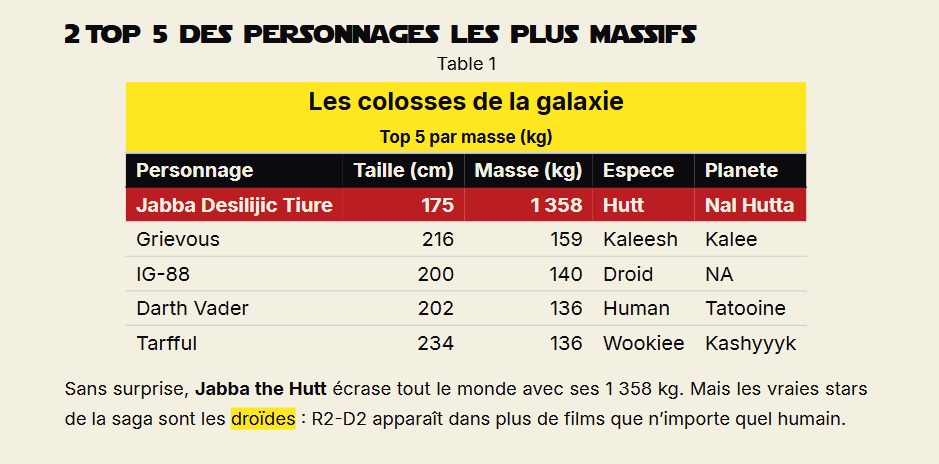
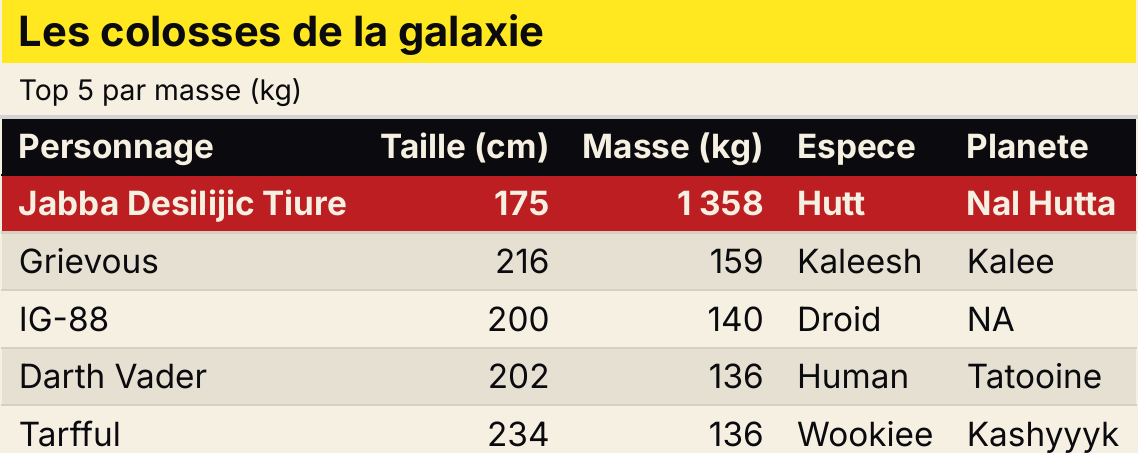
Enrichir le style gt des corrections avec brand (striping, filets, data_color)
- Helper styliser_brand() : theme_brand_gt + opt_table_font(Inter) +
  bandeau jaune + en-têtes noir/crème + striping crème + filets
  imperial-red. Teintes crème dérivées de la palette via prismatic
  (clr_darken), sans hex en dur.
- Tableaux de comptages (mondes natals n, films n_films) : data_color()
  dégradé crème->jaune->rouge (mini-heatmap aux couleurs charte).
- Tableau masses (outlier Jabba) : highlight ligne-1 conservé.
- Bonus 4 du site réécrit pour enseigner cette approche ; capture
  2-gt.png régénérée (l'ancienne mentionnait Star Jedi à tort) ;
  prereq prismatic ajouté au README exo 2.
Vérifié au rendu Typst (exo 1 + livre exo 2).

https://claude.ai/code/session_01GQM4f7ia8bhdrjoEd8cTcz

diff --git a/exercises/02-projet-book/README.md b/exercises/02-projet-book/README.md
@@ -7,7 +7,7 @@
 
 - Quarto 1.9+ (cf. [`preparatifs.qmd`](../../preparatifs.qmd))
 - Packages R installés : `dplyr`, `ggplot2`, `ggrepel`, `gt`, `scales`
-- Pour le Bonus 4 (optionnel, brand styling avancé) : `brand.yml` (cf. [`preparatifs.qmd`](../../preparatifs.qmd))
+- Pour le Bonus 4 (optionnel, brand styling avancé) : `brand.yml` + `prismatic` (cf. [`preparatifs.qmd`](../../preparatifs.qmd))
 - L'extension `orange-book` (livrée avec Quarto 1.9, pas d'install à faire)
 
 ## Mise en place
